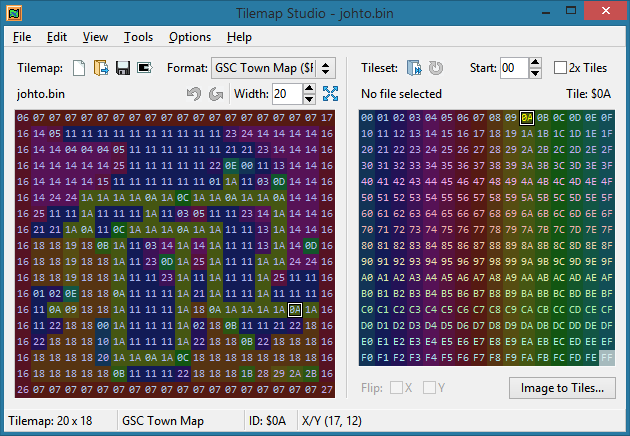
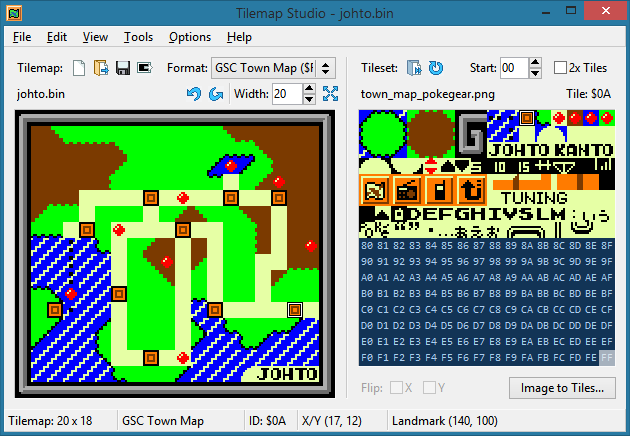
Colored example tileset graphics

diff --git a/README.md b/README.md
@@ -8,6 +8,6 @@ Latest prerelease: [**0.1.0**](https://github.com/Rangi42/tilemap-studio/release
 
 Follow the steps in [INSTALL.md](INSTALL.md) to install the release copy of Tilemap Studio, or the longer instructions to build it yourself from source.
 
-The [example/](example/) directory contains tilemaps and tileset graphics for three different kinds of Town Map. Each one uses a different format: **pokered/town_map.rle** is an RBY Town Map, **pokecrystal/\*.bin** are GSC Town Maps, and **polishedcrystal/\*.bin** are PC Town Maps.
+The [example/](example/) directory contains different kinds of tilemaps and tileset graphics. **pokered/town_map.rle** is an RBY Town Map; **pokecrystal/\*.bin** are GSC Town Maps; **pokecrystal/\*.tilemap.rle** are Pokégear cards; and **polishedcrystal/\*.bin** are PC Town Maps.
 
 ![Screenshot](screenshot.png)
